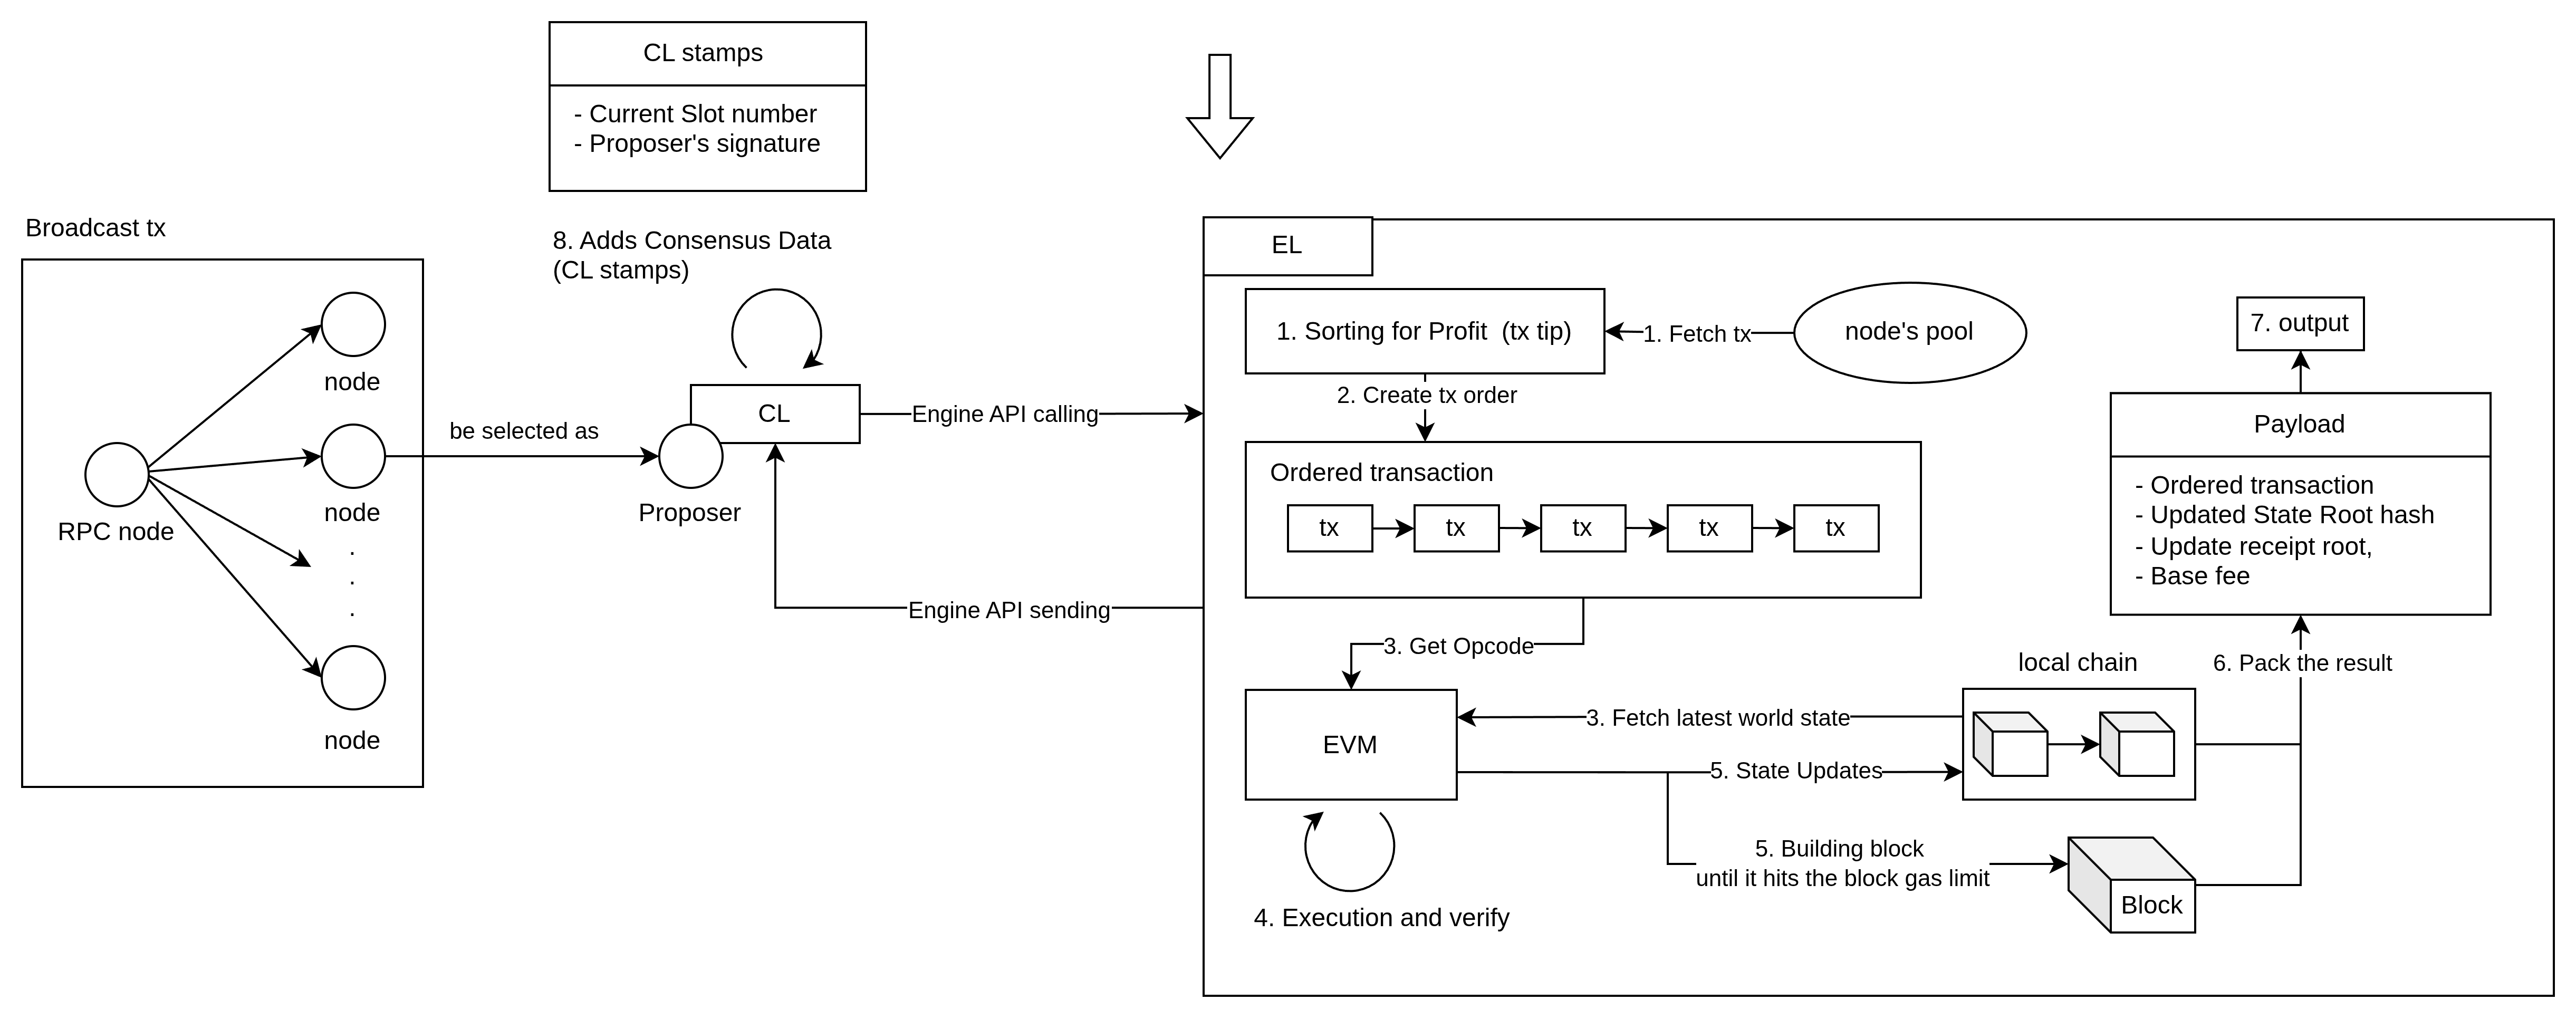
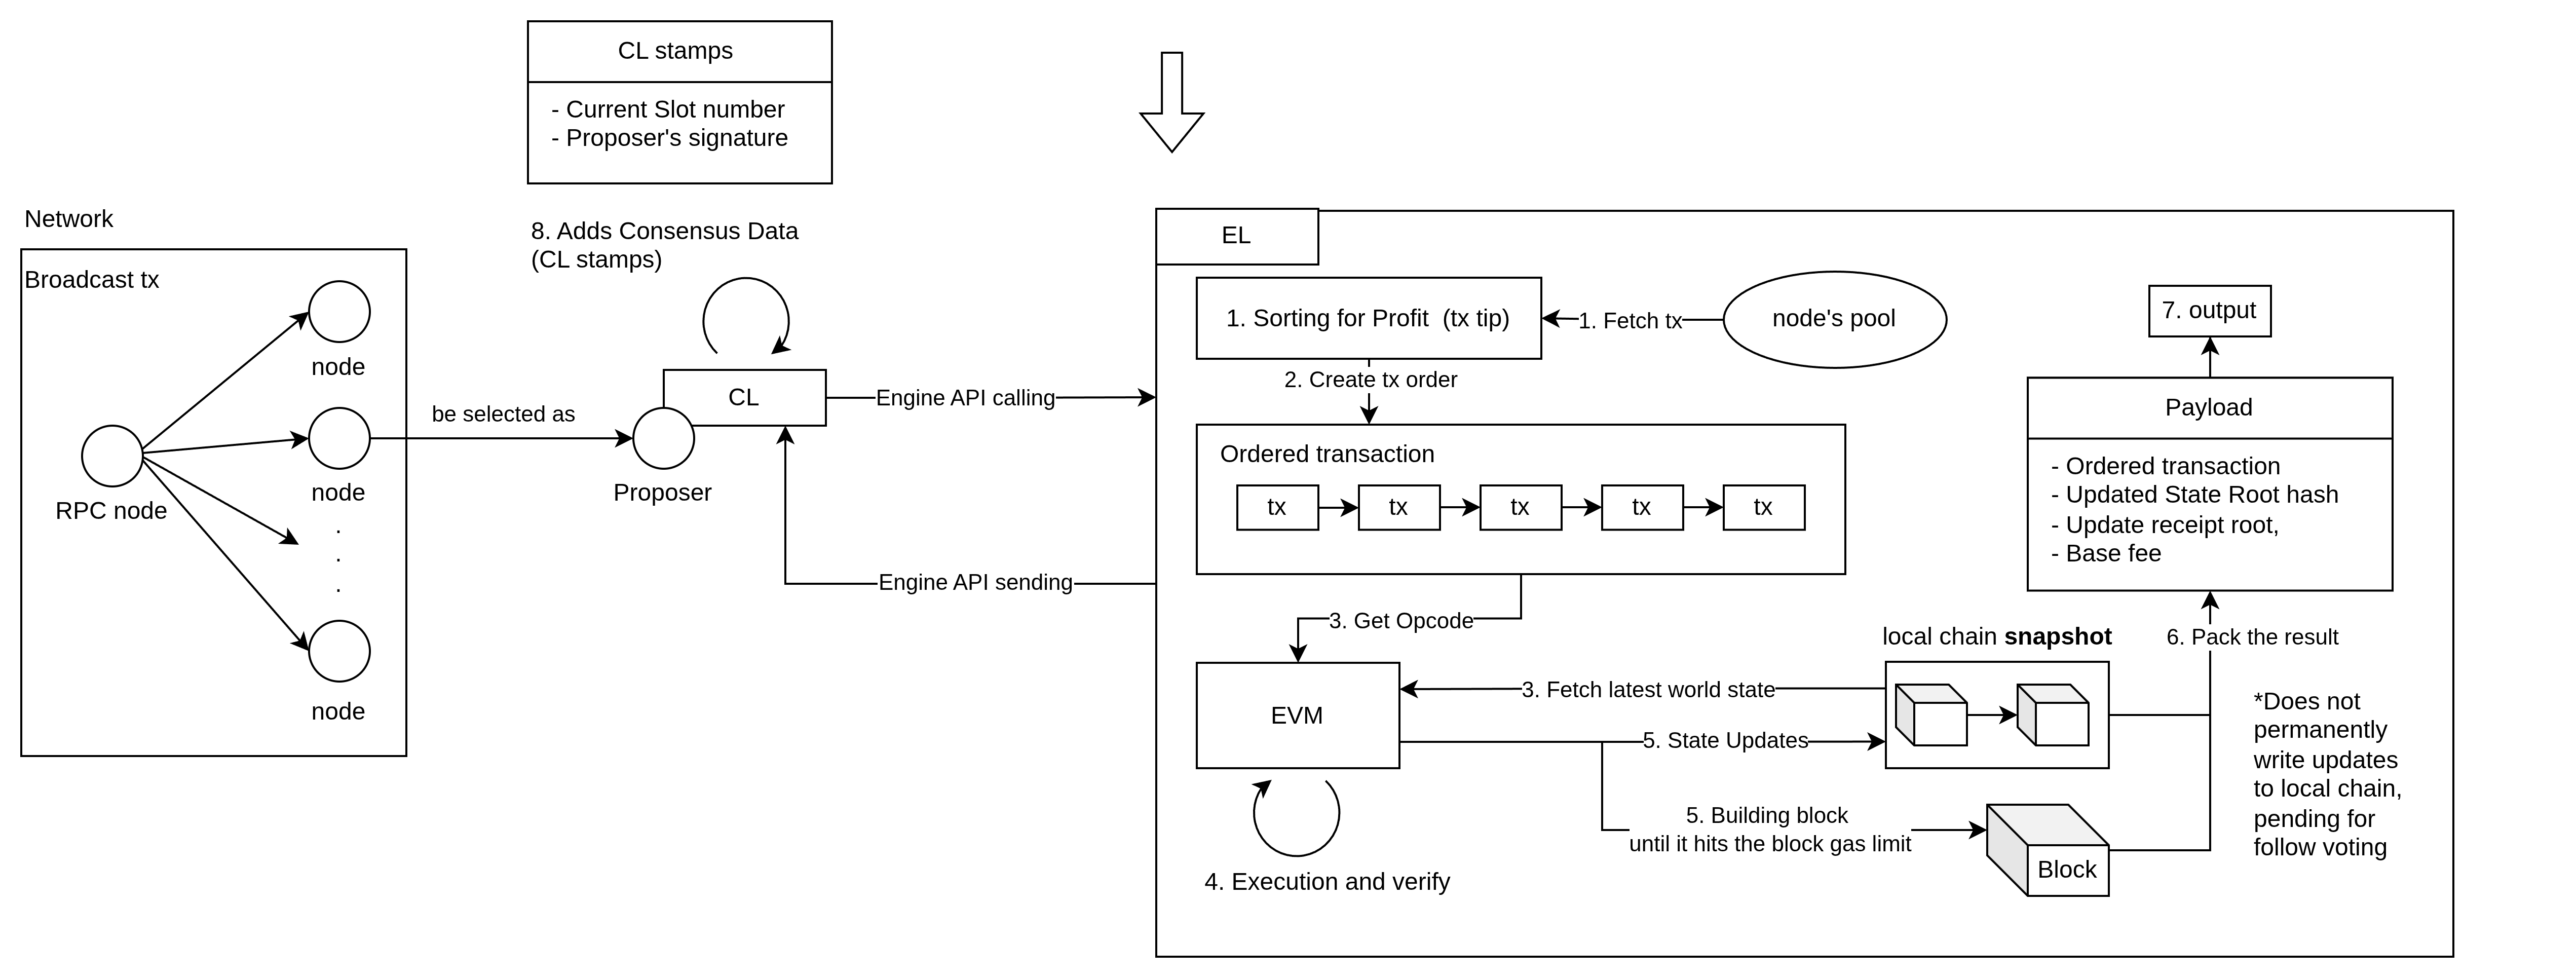
update: add new transaction overview images to enhance Ethereum documentation

diff --git a/src/content/docs/ethereum/eth-transaction.md b/src/content/docs/ethereum/eth-transaction.md
@@ -3,8 +3,10 @@ title: Transaction Processing
 description: A guide to Ethereum block structure, transaction fields, and lifecycle.
 ---
 #### Overview (vanilla block building)
-![overview](../../../assets/tx_overview.png)
+![overview1](../../../assets/tx_overview_1.png)
 ![overview2](../../../assets/tx_overview_2.png)
+![overview3](../../../assets/tx_overview_3.png)
+![overview4](../../../assets/tx_overview_4.png)
 
 # Ethereum Transaction types
 